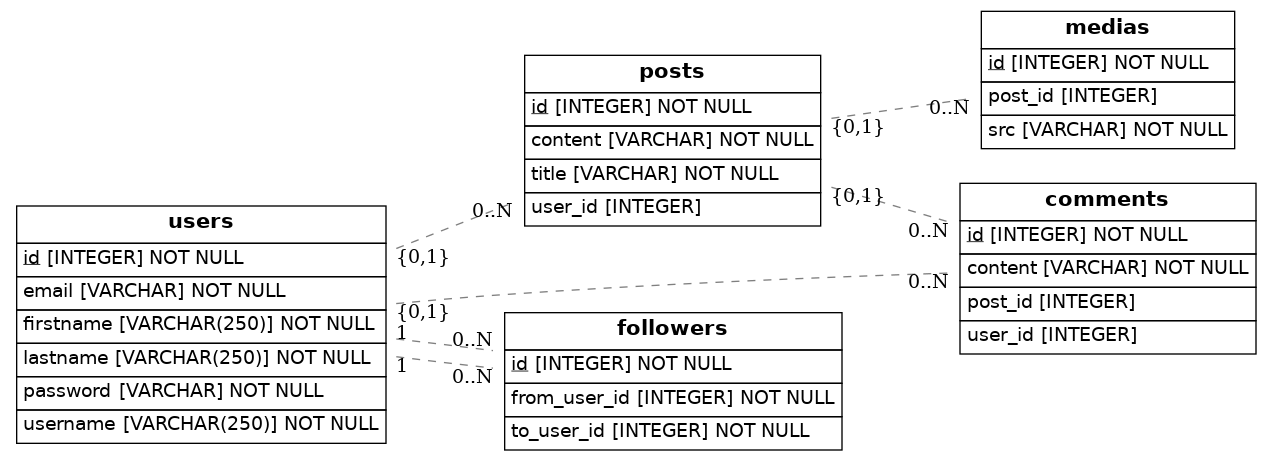
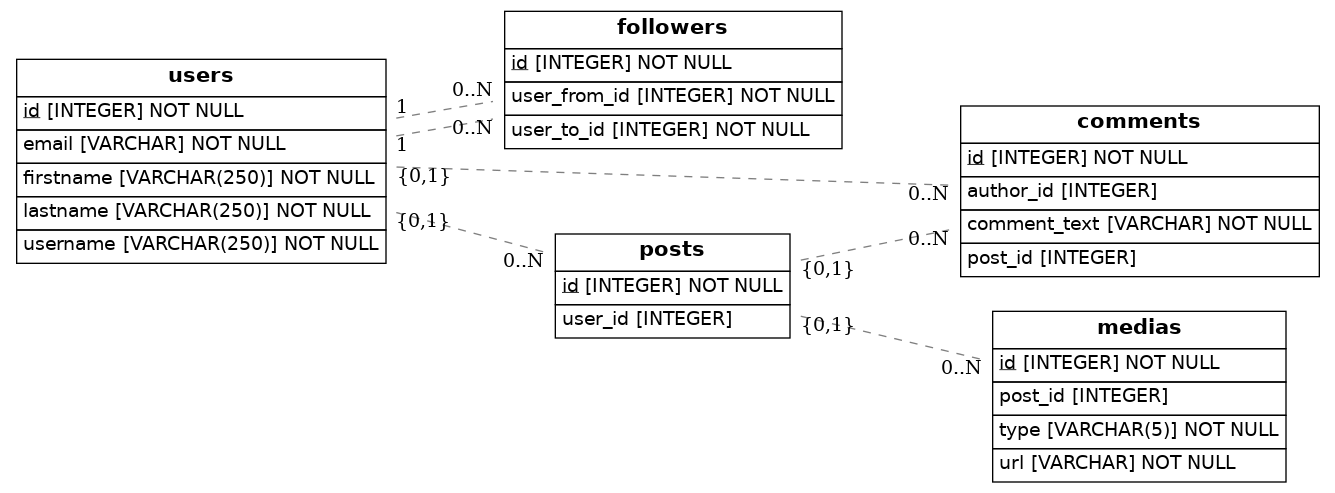
feat: Finalizada la conexión de las tablas y definido el modelo Medias con Enum
- Añadida la columna  en la tabla  usando  para tipos de medio (image, video, audio).
- Conexión completa entre las tablas , , , y .

diff --git a/src/models.py b/src/models.py
@@ -1,6 +1,6 @@
 import os
 import sys
-from sqlalchemy import Column, ForeignKey, Integer, String
+from sqlalchemy import Column, ForeignKey, Integer, String, Enum
 from sqlalchemy.orm import relationship, declarative_base
 from sqlalchemy import create_engine
 from eralchemy2 import render_er
@@ -14,7 +14,6 @@ class Users(Base):
     username = Column(String(250), nullable=False)
     lastname = Column(String(250), nullable=False)
     email = Column(String, nullable=False, unique=True)
-    password = Column(String, nullable=False)
 
     def serialize(self):
         return {
@@ -25,43 +24,41 @@ class Users(Base):
             "email": self.email
         }
 
-class Posts(Base):
-    __tablename__ = 'posts'
+class Followers(Base):
+    __tablename__ = 'followers'
     id = Column(Integer, primary_key=True)
-    title = Column(String, nullable=False)
-    content = Column(String, nullable=False)
-    user_id = Column(Integer, ForeignKey('users.id'))
-    user = relationship('Users', backref='posts')
+    user_from_id = Column(Integer, ForeignKey('users.id'), nullable=False)
+    user_to_id = Column(Integer, ForeignKey('users.id'), nullable=False)
+    user_from = relationship('Users', foreign_keys=[user_from_id], backref='following')
+    user_to = relationship('Users', foreign_keys=[user_to_id], backref='followers')
 
 class Comments(Base):
     __tablename__ = 'comments'
     id = Column(Integer, primary_key=True)
-    content = Column(String, nullable=False)
-    user_id = Column(Integer, ForeignKey('users.id'))
+    author_id = Column(Integer, ForeignKey('users.id'))
     user = relationship('Users', backref='comments')
     post_id = Column(Integer, ForeignKey('posts.id'))
     post = relationship('Posts', backref='comments')
+    comment_text = Column(String, nullable=False)
 
     def serialize(self):
         return {
             "id": self.id,
-            "content": self.content
+            "comment_text": self.comment_text
         }
+    
+class Posts(Base):
+    __tablename__ = 'posts'
+    id = Column(Integer, primary_key=True)
+    user_id = Column(Integer, ForeignKey('users.id'))
 
 class Medias(Base):
     __tablename__ = 'medias'
     id = Column(Integer, primary_key=True)
-    src = Column(String, nullable=False)
+    url = Column(String, nullable=False)
+    type = Column(Enum('image', 'video', 'audio', name='media_types'), nullable=False)
     post_id = Column(Integer, ForeignKey('posts.id'))
     post = relationship('Posts', backref='medias')
-
-class Followers(Base):
-    __tablename__ = 'followers'
-    id = Column(Integer, primary_key=True)
-    from_user_id = Column(Integer, ForeignKey('users.id'), nullable=False)
-    to_user_id = Column(Integer, ForeignKey('users.id'), nullable=False)
-    from_user = relationship('Users', foreign_keys=[from_user_id], backref='following')
-    to_user = relationship('Users', foreign_keys=[to_user_id], backref='followers')
 
 # Draw from SQLAlchemy base
 try:
